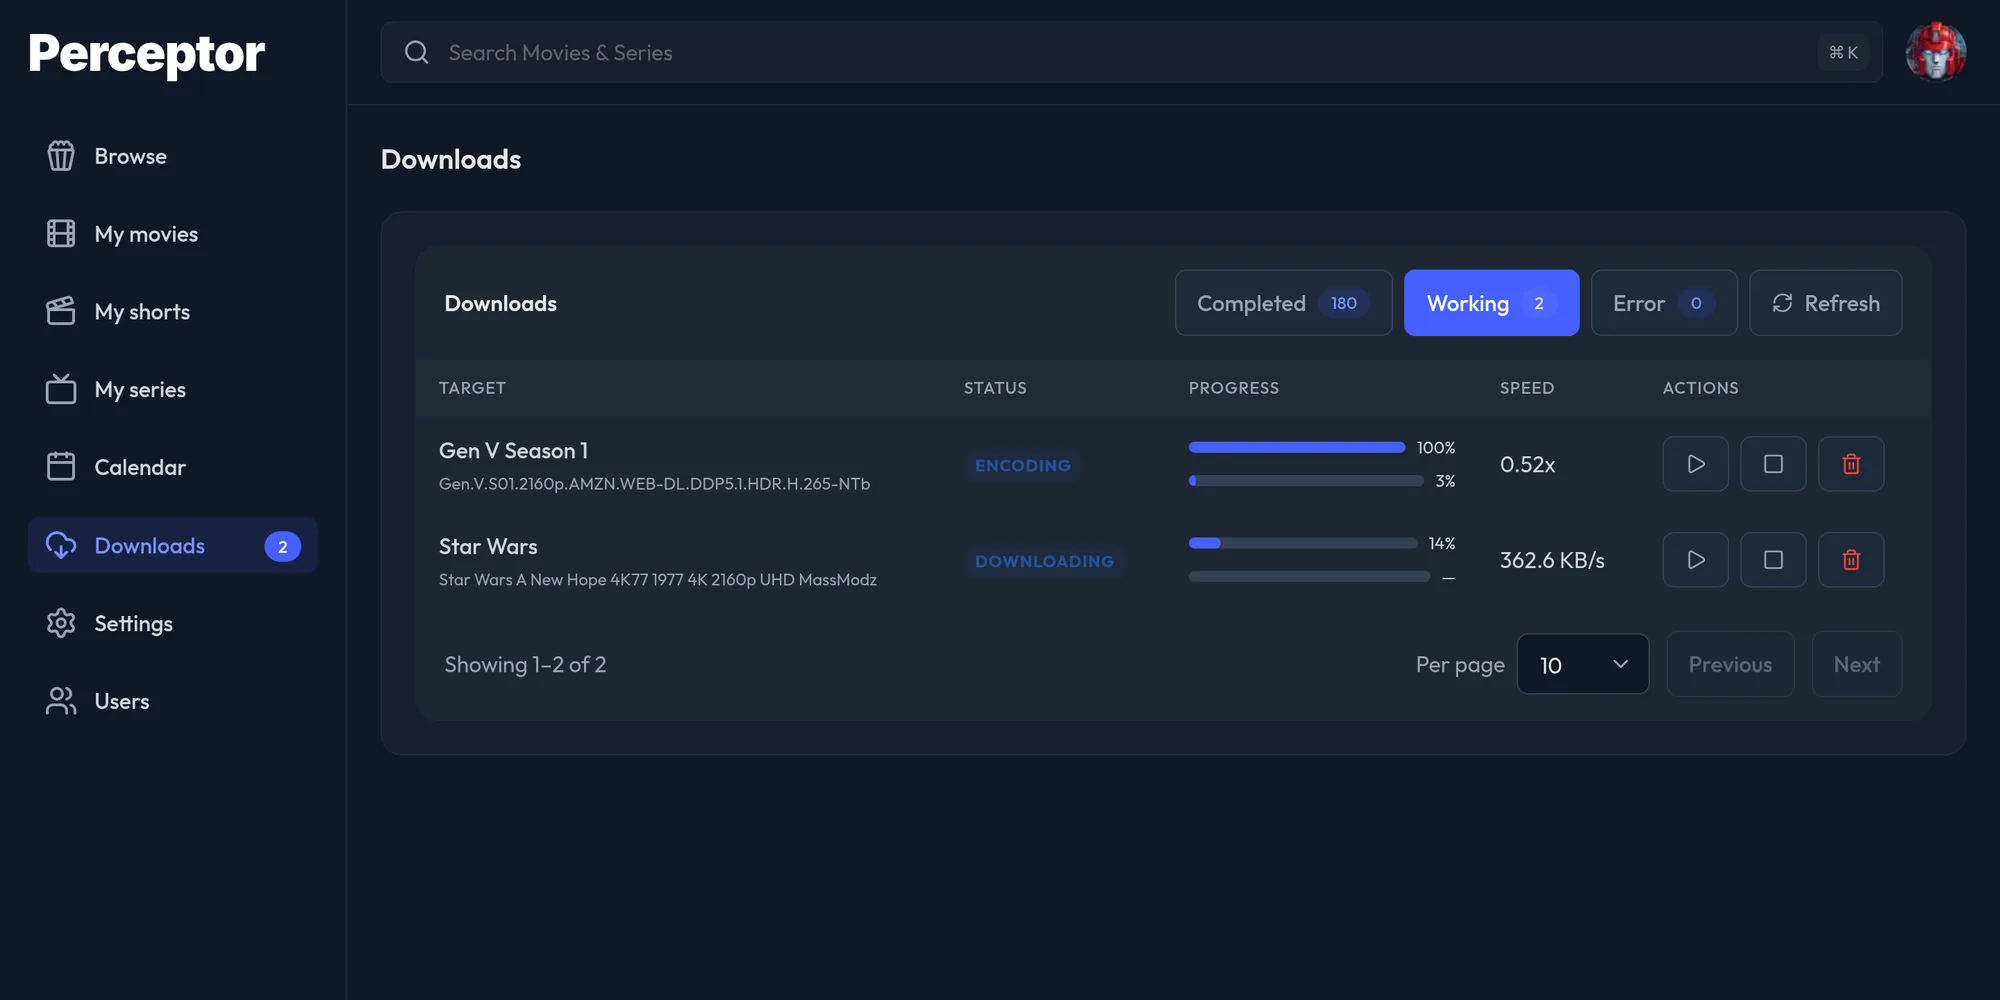
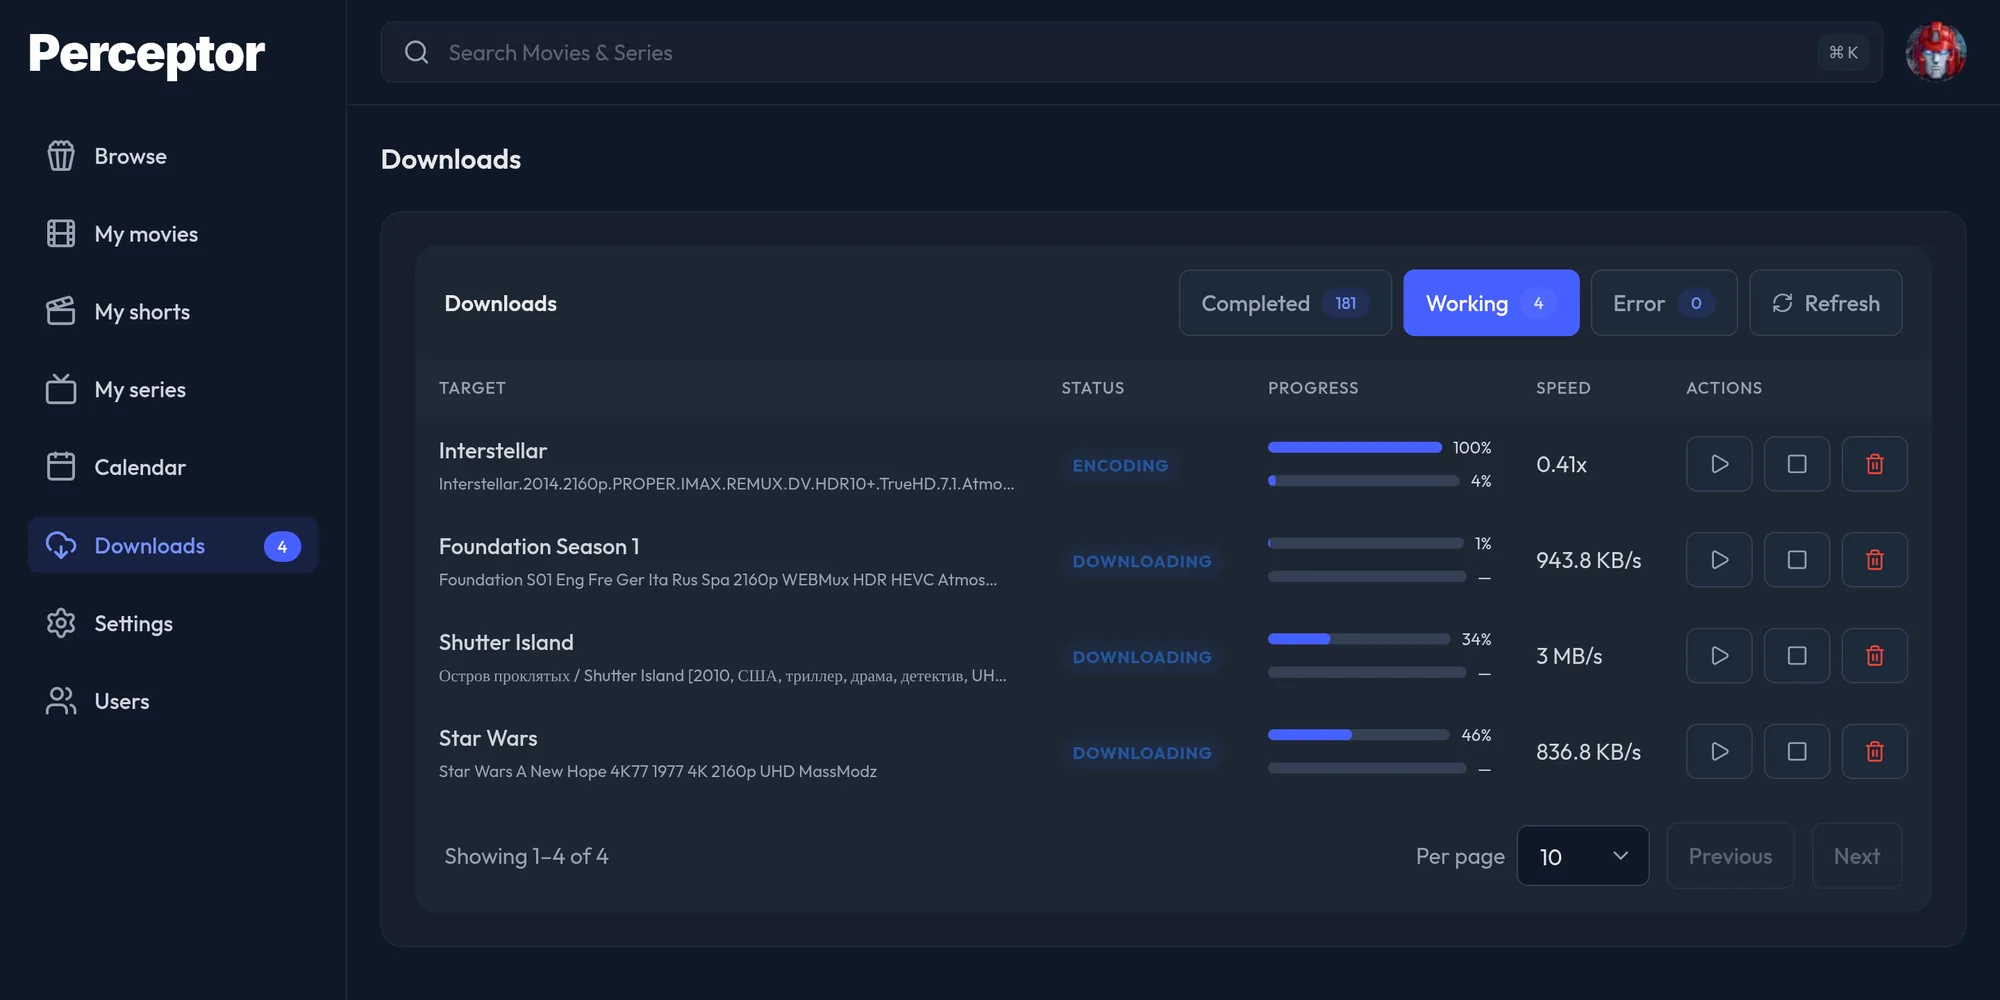
[site] reshoot the queue slide with a live encode and shutter island
The tour follows Shutter Island through search, title and release; the queue
now shows it downloading alongside a real encode, so step four is the same
title rather than a different one.

diff --git a/site/index.html b/site/index.html
@@ -446,7 +446,7 @@
         <figcaption>401 releases came back. <b>Best candidates</b> leaves 47 — the top resolution tier, parsed and ranked, vetoes dropped.</figcaption>
       </figure>
       <figure class="slide" id="slide-3" role="tabpanel" hidden>
-        <img src="shots/downloads.webp" width="2000" height="1000" loading="lazy" alt="The downloads queue: one title encoding, one downloading">
+        <img src="shots/downloads.webp" width="2000" height="1000" loading="lazy" alt="The downloads queue: one title encoding, three downloading">
         <figcaption>It downloads and re-encodes on its own. This is the only screen you'd ever check.</figcaption>
       </figure>
       <figure class="slide" id="slide-4" role="tabpanel" hidden>
